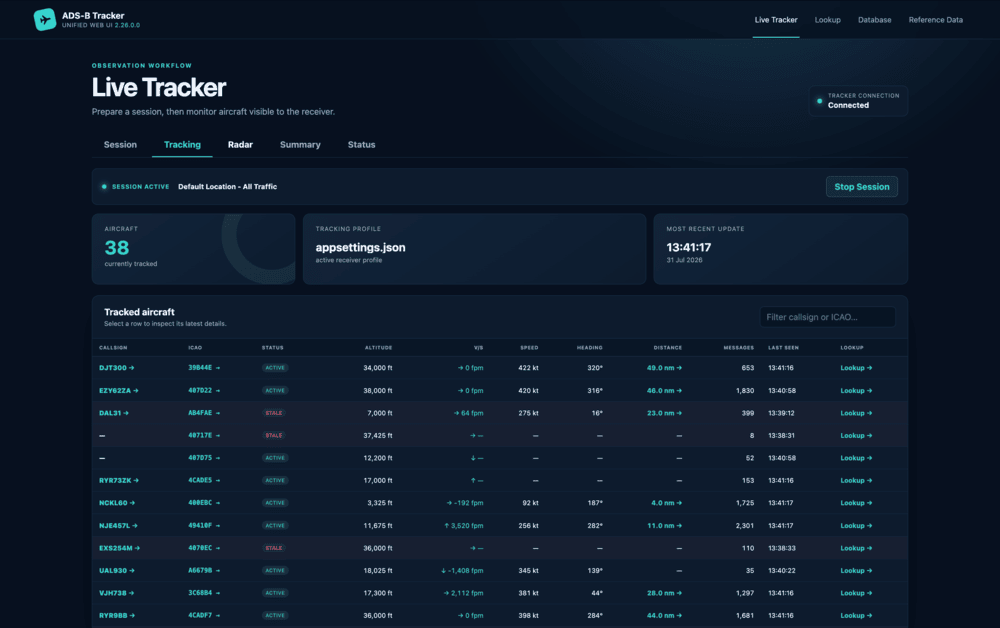
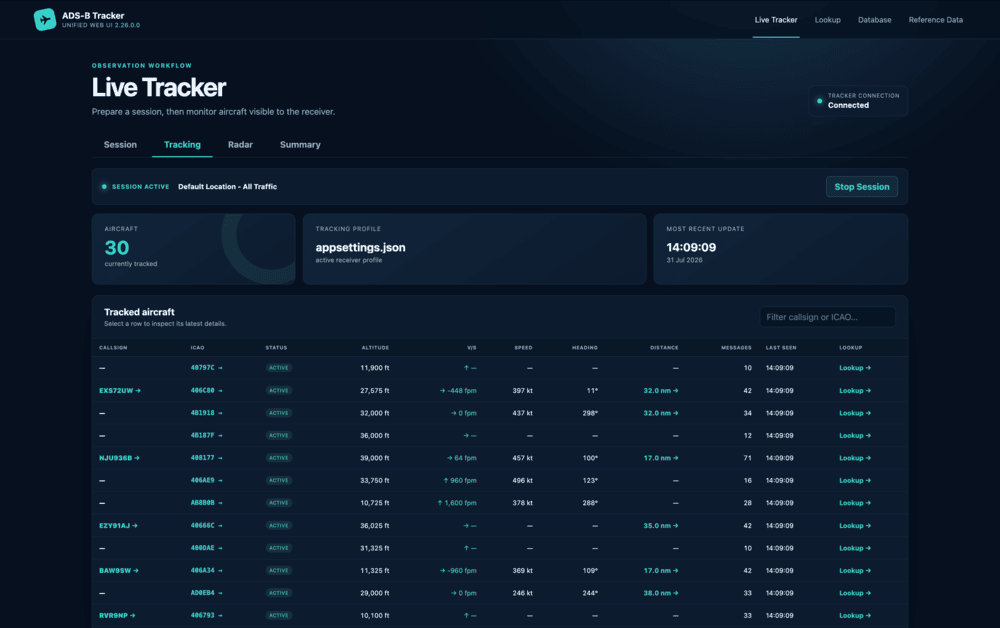
Merge status tab into the summary tab

diff --git a/src/BaseStationReader.TrackerHub/Services/TrackingRuntime.cs b/src/BaseStationReader.TrackerHub/Services/TrackingRuntime.cs
@@ -23,6 +23,9 @@ public sealed class TrackingRuntime : ITrackerController, IReceiverPositionProvi
     private long _lastPositionRecordsWritten;
     private long _lastAircraftAdded;
     private long _lastAircraftRemoved;
+    private long _lastDistinctAircraft;
+    private long _lastDistinctCallsigns;
+    private long _lastAircraftWithPositionRecords;
 
     public TrackingRuntime(TrackerApplicationSettings settings,
         Func<TrackerApplicationSettings, string?, ITrackerController> factory)
@@ -39,6 +42,9 @@ public sealed class TrackingRuntime : ITrackerController, IReceiverPositionProvi
     public long PositionRecordsWritten { get { lock (_stateLock) return _controller?.PositionRecordsWritten ?? _lastPositionRecordsWritten; } }
     public long AircraftAdded { get { lock (_stateLock) return _controller?.AircraftAdded ?? _lastAircraftAdded; } }
     public long AircraftRemoved { get { lock (_stateLock) return _controller?.AircraftRemoved ?? _lastAircraftRemoved; } }
+    public long DistinctAircraft { get { lock (_stateLock) return _controller?.DistinctAircraft ?? _lastDistinctAircraft; } }
+    public long DistinctCallsigns { get { lock (_stateLock) return _controller?.DistinctCallsigns ?? _lastDistinctCallsigns; } }
+    public long AircraftWithPositionRecords { get { lock (_stateLock) return _controller?.AircraftWithPositionRecords ?? _lastAircraftWithPositionRecords; } }
     public bool IsTracking { get { lock (_stateLock) return _controller is not null; } }
     public (double? Latitude, double? Longitude) ReceiverPosition
     {
@@ -143,6 +149,9 @@ public sealed class TrackingRuntime : ITrackerController, IReceiverPositionProvi
             _lastPositionRecordsWritten = 0;
             _lastAircraftAdded = 0;
             _lastAircraftRemoved = 0;
+            _lastDistinctAircraft = 0;
+            _lastDistinctCallsigns = 0;
+            _lastAircraftWithPositionRecords = 0;
             _controller = controller;
             _controllerCancellation = cancellation;
             _controllerTask = controller.StartAsync(cancellation.Token);
@@ -180,6 +189,9 @@ public sealed class TrackingRuntime : ITrackerController, IReceiverPositionProvi
             _lastPositionRecordsWritten = controller.PositionRecordsWritten;
             _lastAircraftAdded = controller.AircraftAdded;
             _lastAircraftRemoved = controller.AircraftRemoved;
+            _lastDistinctAircraft = controller.DistinctAircraft;
+            _lastDistinctCallsigns = controller.DistinctCallsigns;
+            _lastAircraftWithPositionRecords = controller.AircraftWithPositionRecords;
             _controller = null;
             _controllerCancellation = null;
             _controllerTask = null;

diff --git a/src/BaseStationReader.BusinessLogic/Tracking/AircraftTracker.cs b/src/BaseStationReader.BusinessLogic/Tracking/AircraftTracker.cs
@@ -26,6 +26,8 @@ namespace BaseStationReader.BusinessLogic.Tracking
         private long _messagesProcessed;
         private long _aircraftAdded;
         private long _aircraftRemoved;
+        private readonly ConcurrentDictionary<string, byte> _observedAddresses = new(StringComparer.OrdinalIgnoreCase);
+        private readonly ConcurrentDictionary<string, byte> _observedCallsigns = new(StringComparer.OrdinalIgnoreCase);
 
         public event EventHandler<AircraftNotificationEventArgs> AircraftEvent;
 
@@ -37,6 +39,12 @@ namespace BaseStationReader.BusinessLogic.Tracking
 
         /// <inheritdoc />
         public long AircraftRemoved => Interlocked.Read(ref _aircraftRemoved);
+
+        /// <inheritdoc />
+        public long DistinctAircraft => _observedAddresses.Count;
+
+        /// <inheritdoc />
+        public long DistinctCallsigns => _observedCallsigns.Count;
 
         public AircraftTracker(
             IMessageReader reader,
@@ -131,6 +139,11 @@ namespace BaseStationReader.BusinessLogic.Tracking
 
                 // Count each accepted message once, independently of mutable per-aircraft lifetimes.
                 Interlocked.Increment(ref _messagesProcessed);
+
+                // Retain session-wide distinct identities independently of live-aircraft removal and row reuse.
+                _observedAddresses.TryAdd(msg.Address, 0);
+                if (!string.IsNullOrWhiteSpace(msg.Callsign))
+                    _observedCallsigns.TryAdd(msg.Callsign.Trim(), 0);
 
                 // Create a new tracked aircraft instance and update it from the message
                 var newTrackedAircraft = new TrackedAircraft() { FirstSeen = DateTime.Now };

diff --git a/src/BaseStationReader.BusinessLogic/Database/ContinuousWriter.cs b/src/BaseStationReader.BusinessLogic/Database/ContinuousWriter.cs
@@ -15,11 +15,15 @@ namespace BaseStationReader.BusinessLogic.Database
         private Task _runTask = null;
         private int _pending = 0;
         private long _positionRecordsWritten;
+        private readonly ConcurrentDictionary<string, byte> _positionAircraft = new(StringComparer.OrdinalIgnoreCase);
 
         public int QueueSize { get => _queue.Count; }
 
         /// <inheritdoc />
         public long PositionRecordsWritten => Interlocked.Read(ref _positionRecordsWritten);
+
+        /// <inheritdoc />
+        public long AircraftWithPositionRecords => _positionAircraft.Count;
 
         public ContinuousWriter(IDatabaseManagementFactory factory)
         {
@@ -64,6 +68,7 @@ namespace BaseStationReader.BusinessLogic.Database
 
                 // Each writer run belongs to one observation session, so begin its successful-write count at zero.
                 Interlocked.Exchange(ref _positionRecordsWritten, 0);
+                _positionAircraft.Clear();
 
                 // Create a cancellation token source linked to the token passed in. This ensures that
                 // cancelling the token that's passed in will cancel this one, too
@@ -303,6 +308,7 @@ namespace BaseStationReader.BusinessLogic.Database
 
             // Increment only after persistence succeeds so the status value describes records actually written.
             Interlocked.Increment(ref _positionRecordsWritten);
+            _positionAircraft.TryAdd(position.Address, 0);
 
             return true;
         }

diff --git a/src/BaseStationReader.Interfaces/Tracking/ITrackerController.cs b/src/BaseStationReader.Interfaces/Tracking/ITrackerController.cs
@@ -30,6 +30,15 @@ namespace BaseStationReader.Interfaces.Tracking
         /// </summary>
         long AircraftRemoved => 0;
 
+        /// <summary>Gets the number of distinct ICAO addresses observed during the current session.</summary>
+        long DistinctAircraft => 0;
+
+        /// <summary>Gets the number of distinct callsigns observed during the current session.</summary>
+        long DistinctCallsigns => 0;
+
+        /// <summary>Gets the number of distinct aircraft with successfully written position records.</summary>
+        long AircraftWithPositionRecords => 0;
+
         Task StartAsync(CancellationToken token);
         int QueueSize { get; }
         Task FlushQueueAsync();

diff --git a/src/BaseStationReader.TrackerHub/Services/LiveTrackerStatusService.cs b/src/BaseStationReader.TrackerHub/Services/LiveTrackerStatusService.cs
@@ -75,6 +75,9 @@ public sealed class LiveTrackerStatusService(
             AircraftRemoved = runtime.AircraftRemoved,
             PositionRecords = runtime.PositionRecordsWritten,
             MessagesProcessed = runtime.MessagesProcessed,
+            DistinctAircraft = runtime.DistinctAircraft,
+            DistinctCallsigns = runtime.DistinctCallsigns,
+            AircraftWithPositionRecords = runtime.AircraftWithPositionRecords,
             AircraftLocallyResolved = localAddresses,
             AircraftUnresolved = Math.Max(0, addresses.Length - localAddresses),
             FlightsLocallyResolved = localCallsigns,

diff --git a/src/BaseStationReader.BusinessLogic/Tracking/TrackerController.cs b/src/BaseStationReader.BusinessLogic/Tracking/TrackerController.cs
@@ -58,6 +58,15 @@ namespace BaseStationReader.BusinessLogic.Tracking
         /// <inheritdoc />
         public long AircraftRemoved => _tracker?.AircraftRemoved ?? 0;
 
+        /// <inheritdoc />
+        public long DistinctAircraft => _tracker?.DistinctAircraft ?? 0;
+
+        /// <inheritdoc />
+        public long DistinctCallsigns => _tracker?.DistinctCallsigns ?? 0;
+
+        /// <inheritdoc />
+        public long AircraftWithPositionRecords => _writer?.AircraftWithPositionRecords ?? 0;
+
         public TrackerController(
             ITrackerLogger logger,
             BaseStationReaderDbContext context,

diff --git a/src/BaseStationReader.TrackerHub/Models/LiveTrackerStatusDto.cs b/src/BaseStationReader.TrackerHub/Models/LiveTrackerStatusDto.cs
@@ -16,6 +16,9 @@ public sealed record LiveTrackerStatusDto
     public long AircraftRemoved { get; init; }
     public long PositionRecords { get; init; }
     public long MessagesProcessed { get; init; }
+    public long DistinctAircraft { get; init; }
+    public long DistinctCallsigns { get; init; }
+    public long AircraftWithPositionRecords { get; init; }
     public int AircraftLocallyResolved { get; init; }
     public int AircraftUnresolved { get; init; }
     public int FlightsLocallyResolved { get; init; }

diff --git a/src/BaseStationReader.Interfaces/Tracking/IAircraftTracker.cs b/src/BaseStationReader.Interfaces/Tracking/IAircraftTracker.cs
@@ -21,6 +21,12 @@ namespace BaseStationReader.Interfaces.Tracking
         /// </summary>
         long AircraftRemoved => 0;
 
+        /// <summary>Gets the number of distinct ICAO addresses observed during this tracker run.</summary>
+        long DistinctAircraft => 0;
+
+        /// <summary>Gets the number of distinct non-empty callsigns observed during this tracker run.</summary>
+        long DistinctCallsigns => 0;
+
         Task StartAsync(CancellationToken token);
     }
 }

diff --git a/src/BaseStationReader.Interfaces/Database/IContinuousWriter.cs b/src/BaseStationReader.Interfaces/Database/IContinuousWriter.cs
@@ -9,6 +9,11 @@ namespace BaseStationReader.Interfaces.Database
         /// </summary>
         long PositionRecordsWritten => 0;
 
+        /// <summary>
+        /// Gets the number of distinct aircraft for which a position record was successfully written.
+        /// </summary>
+        long AircraftWithPositionRecords => 0;
+
         void Push(object entity);
         Task StartAsync(CancellationToken token);
         Task StopAsync();

diff --git a/src/BaseStationReader.TrackerHub/Services/ILiveTrackerStatusService.cs b/src/BaseStationReader.TrackerHub/Services/ILiveTrackerStatusService.cs
@@ -6,7 +6,7 @@ using BaseStationReader.TrackerHub.Models;
 namespace BaseStationReader.TrackerHub.Services;
 
 /// <summary>
-/// Builds a read-only operational snapshot for the Live Tracker Status tab.
+/// Builds a read-only operational snapshot for the Live Tracker Summary tab.
 /// </summary>
 public interface ILiveTrackerStatusService
 {
